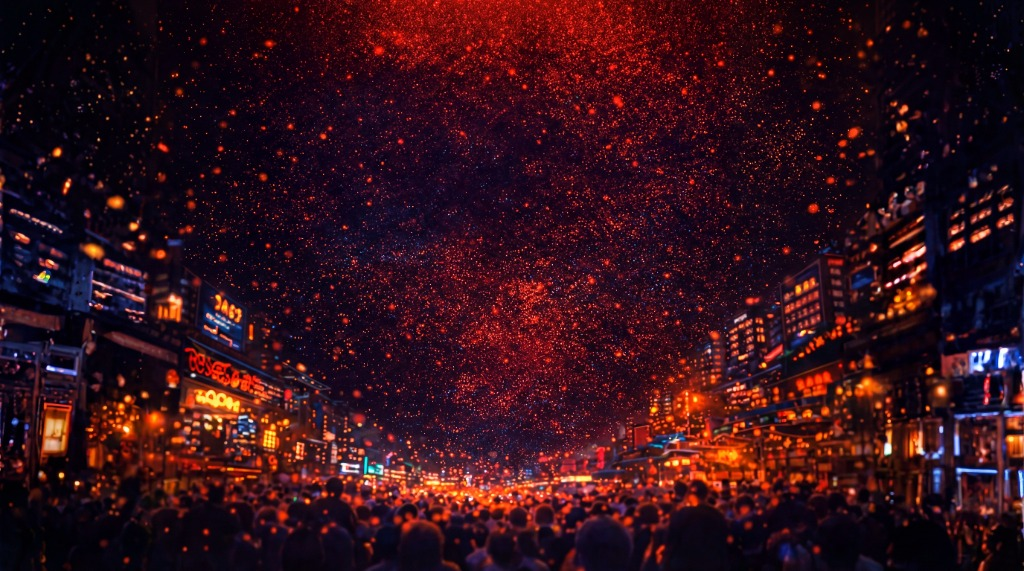
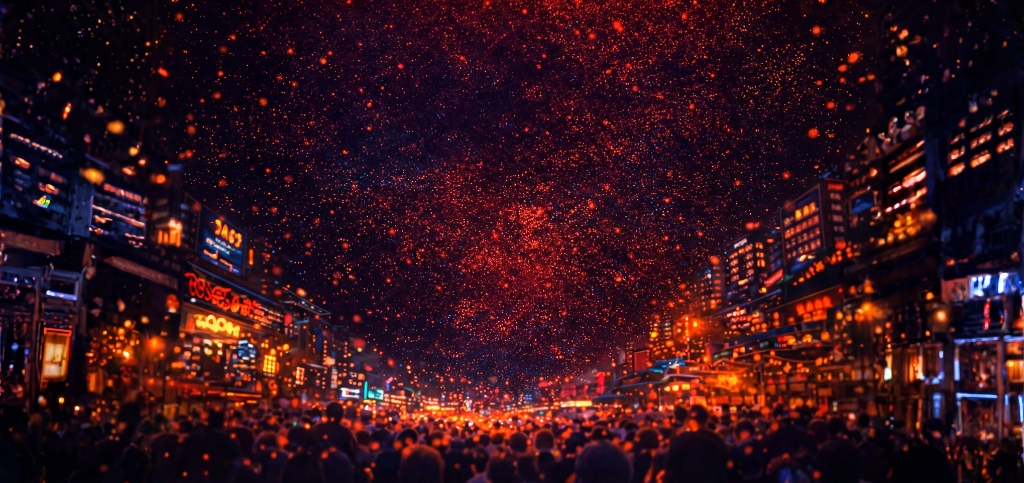
style: update desktop background and move footer up

diff --git a/src/app/page.tsx b/src/app/page.tsx
@@ -159,7 +159,7 @@ export default function Home() {
 
         </main>
 
-        <footer className="py-10 text-center text-white text-xs mt-auto relative z-20">
+        <footer className="py-10 text-center text-white text-xs mt-8 relative z-20">
           <p>© 2026 Salchipapa Fest • Votación segura • Panamá</p>
         </footer>
 
